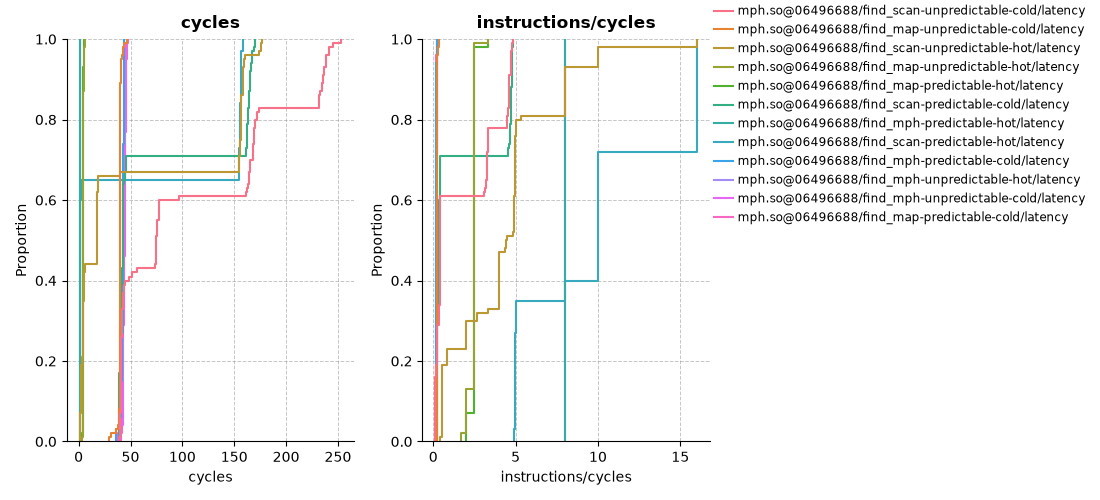
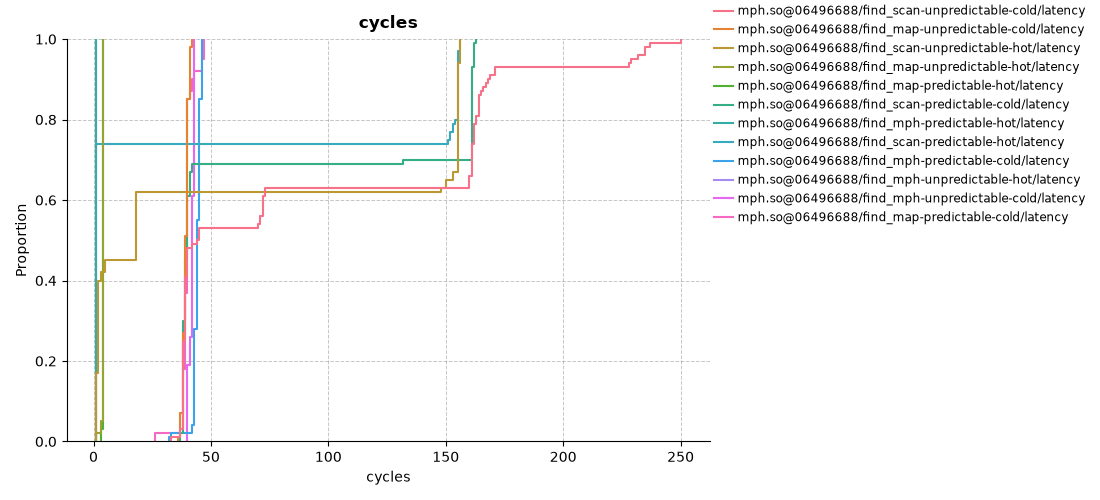
cppcon-2026

diff --git a/cppcon-2026/index.html b/cppcon-2026/index.html
@@ -634,30 +634,20 @@ https://makelinux.github.io/kernel/map
 ##### `Goals`
 <!-- .element: style="text-align:left" -->
 
-**Non-Intrusive**
+**Non-Intrusive** - Benchmark existing binaries, libraries, and assembly without modifying code
 <!-- .element: style="text-align:left; font-size:22px;" -->
-    Benchmark existing binaries, libraries, and assembly without modifying code
-<!-- .element: style="text-align:left; font-size:17px;" -->
 
-**Complete Path Coverage**
+**Complete Path Coverage** - Discover and exercise all relevant execution paths
 <!-- .element: style="text-align:left; font-size:22px;" -->
-    Discover and exercise all relevant execution paths
-<!-- .element: style="text-align:left; font-size:17px;" -->
 
-**Microarchitectural Control**
+**Microarchitectural Control** - "Control" relevant hardware state
 <!-- .element: style="text-align:left; font-size:22px;" -->
-    "Control" relevant hardware state
-<!-- .element: style="text-align:left; font-size:17px;" -->
 
-**Statistical Robustness**
+**Statistical Robustness** - Capture statistically robust measurements
 <!-- .element: style="text-align:left; font-size:22px;" -->
-    Capture statistically robust measurements
-<!-- .element: style="text-align:left; font-size:17px;" -->
 
-**Native execution**
+**Native execution** - Target and execute on real hardware
 <!-- .element: style="text-align:left; font-size:22px;" -->
-    Target and execute on real hardware
-<!-- .element: style="text-align:left; font-size:17px;" -->
 
 ----
 
@@ -972,17 +962,14 @@ je .Lmiss
 ##### `Data`
 <!-- .element: style="text-align:left; font-size:22px;" -->
 ```python
-data(state, n): # predictable                                           python
-    return state.solver.eval_up_to(n)
-
-data(state, n): # unpredcictable
-    return distribution(state.solver.eval_up_to(n))
+def data(addr, n):
+    return distribution(state.solver.eval_up_to(state(addr), n))
 ```
 <!-- .element: style="text-align:left; font-size:20px;" -->
 
 <div style="margin: 50px 0px;" />
 
-##### `Distribution (n > 10'000)`
+##### `Distribution`
 <!-- .element: style="text-align:left; font-size:20px;" -->
 ```cpp
 predictable   = [0,0,0,0,0,0,...]
@@ -1009,7 +996,7 @@ unpredictable = sample(0..n, p=0.25)
 <!-- .element: style="text-align:left;" -->
 
 ```cpp
-add r11, [rax]
+mov r11, [rax]
 ```
 
 https://www.akkadia.org/drepper/cpumemory.pdf
@@ -1017,17 +1004,55 @@ https://www.akkadia.org/drepper/cpumemory.pdf
 
 ----
 
-```cpp
-enum class Level {
-    L1d,
-    L2d,
-    L3d,
-    DRAM,
-};
-```
-<!-- .element: style="text-align:left; font-size:20px;" -->
+##### Cache eviction
+<!-- .element: style="text-align:left; font-size:24px; " -->
 
 ```cpp
+enum class Level { L1, L2, L3, DRAM }; // d-cache
+```
+<!-- .element: style="text-align:left; font-size:17px;" -->
+
+```cpp
+auto refresh(const void* addr, const auto level) {
+    assert(addr);
+    if constexpr (level == Level::L1) {
+        load(addr);                              // L1
+        fence();
+    } else if constexpr (level == Level::L2) {
+        flush(addr);                             // DRAM
+        fence();
+        settle();
+        prefetch<Level>(addr);                   // PREFETCHT1 hint
+    } else if constexpr (level == Level::L3) {
+        load(addr);                              // L1
+        fence();
+        demote(addr);                            // CLDEMOTE hint
+    } else {
+        flush(addr);                             // DRAM
+        fence();
+    }
+    settle();
+}
+```
+<!-- .element: style="text-align:left; font-size:17px;" -->
+
+```asm
+PREFETCHNTA  Non-temporal
+PREFETCHT0   Hint into all cache levels (L1 priority)
+PREFETCHT1   Hint into L2/L3, lower L1 priority
+PREFETCHT2   Hint into L2/L3 with even lower urgency
+CLFLUSH{OPT} Flush Cache Line
+CLDEMOTE     Hint into more distant level (Xeon, Sapphire Rapids, ...)
+```
+<!-- .element: style="text-align:left; font-size:13px; margin: 0 0;" -->
+
+https://www.intel.com/content/www/us/en/developer/articles/technical/intel-sdm.html
+<!-- .element: style="text-align:left; font-size:16px;" -->
+
+----
+
+```cpp
+// hirearchy
 level = {
     0x03232: L1d:100, L2d:70, L3d:50, DRAM:100
 }
@@ -1041,41 +1066,19 @@ for addr in cache_lines(state["mem_read"] + state["mem_write"]):      # python
 
 ----
 
+##### `More...`
+<!-- .element: style="text-align:left;" -->
+
 ```cpp
-template<Level level>
-auto refresh(const void* addr) {
-    assert(addr);
-    if constexpr (level == Level::L1) {
-        load(addr);                              // L1d
-        fence();
-    } else if constexpr (level == Level::L2) {
-        flush(addr);                             // DRAM
-        fence();
-        settle();
-        prefetch<Level>(addr);                   // PREFETCHT1 hint
-    } else if constexpr (level == Level::L3) {
-        load(addr);                              // L1d
-        demote(addr);                            // CLDEMOTE hint
-    } else {
-        flush(addr);                             // DRAM
-        fence();
-    }
-    settle();
-}
+Code alignment
+Stack alignment/size
+Instruction cache
+Translation Lookaside Buffer (TLB)
+Execution ports
+Thread affinity/priority
+...
 ```
-<!-- .element: style="text-align:left; font-size:20px;" -->
-
-```asm
-PREFETCHNTA Non-temporal
-PREFETCHT0  Hint into all cache levels (L1 priority)
-PREFETCHT1  Hint into L2/L3, lower L1 priority
-PREFETCHT2  Hint into L2/L3 with even lower urgency
-CLDEMOTE    Hint into more distant level (Xeon, Sapphire Rapids, ...)
-```
-<!-- .element: style="text-align:left; font-size:16px;" -->
-
-https://www.intel.com/content/www/us/en/developer/articles/technical/intel-sdm.html
-<!-- .element: style="text-align:left; font-size:18px;" -->
+<!-- .element: class="fragment" -->
 
 ----
 
@@ -1162,7 +1165,7 @@ lstopo # perf info cpu -c cpu,numa,arch,model,family,stepping,freq,L1i,L1d,L2,L3
 
 ```cpp
 def AlderlakePModel : SchedMachineModel {
-  let IssueWidth = 6;
+  let IssueWidth = 6; // Max uOps/Cycle
   let MicroOpBufferSize = 512;
   let LoadLatency = 5;
   let MispredictPenalty = 14;
@@ -1170,13 +1173,12 @@ def AlderlakePModel : SchedMachineModel {
   ...
 }
 ```
-<!-- .element: style="text-align:left; font-size:18px;" -->
 
 https://github.com/llvm/llvm-project/tree/main/llvm/lib/Target
-<!-- .element: style="text-align:left; font-size: 18px; margin: 5px 0px;" -->
+<!-- .element: style="text-align:left; font-size: 20px; margin: 5px 0px;" -->
 
 https://github.com/gcc-mirror/gcc/tree/master/gcc/config
-<!-- .element: style="text-align:left; font-size: 18px; margin: 5px 0px;" -->
+<!-- .element: style="text-align:left; font-size: 20px; margin: 5px 0px;" -->
 
 ----
 
@@ -1255,7 +1257,7 @@ https://llvm.org/docs/CommandGuide/llvm-exegesis.html
 <!-- .element: style="text-align:left" -->
 
 ```cpp
-perf bench asm 'add r11, [rax]'           perf bench asm 'add r11, [rax]'
+perf bench asm 'mov r11, [rax]'           perf bench asm 'mov r11, [rax]'
     --mode latency                            --mode latency
     --event cycles                            --event cycles
     --config.cache.L1d=hit_rate:100           --config.cache.L1d=hit_rate:0
@@ -1301,9 +1303,12 @@ perf plot -t ecdf -e duration_time/operations -- data/
 <img src="images/co.png" style="width: 100%; background:white; border:none; box-shadow:none; margin: 0 0;" />
 </p>
 
+duration_time/operations = latency | inverse throughput (reciprocal throughput)
+<!-- .element: style="text-align:right; font-size: 16px;" -->
+
 ----
 
-#### 'The Best, The Worst, The Real' Execution
+#### 'The Best, The Real, The Worst' Execution
 <!-- .element: style="text-align:left" -->
 
 <p align="left">
@@ -1594,8 +1599,6 @@ bench --data.arg0=1
 bench --data.arg0=3
 bench --data.arg0=5
 bench --data.arg0=15
-bench --config.branch=predictable
-bench --config.branch=unpredictable
 bench --data.arg0=[$(seq 1 100000)] --config.branch=unpredictable
 bench --data.arg0=[$(seq 1 100000)] --config.branch=predictable
 ```
@@ -1658,7 +1661,7 @@ for l1i in 0 100; do for align in 1 16; do
   perf bench region hot_begin..hot_end
       --exec codegen.out
       --mode latency
-      --config.cache.L1i=hit_rate:$l1i  # instruction cache
+      --config.cache.L1i=hit_rate:$l1i  # i-cache
       --config.func.align=$align        # alignment
       --config.func.order=as-is         # as-is,hot,cold,random
 done; done
@@ -1802,34 +1805,21 @@ for cxx in ("gcc", "clang"):
 ----
 
 ```sh
-perf view --event cycles --stat p99 -- find
-```
-<!-- .element: style="text-align:left; font-size:16px;" -->
-
-```sh
-           file                         name    mode stat cycles instructions/cycles
-mph.so@06496688    find_map-predictable-cold latency  p99  47.01                0.24
-mph.so@06496688     find_map-predictable-hot latency  p99   5.00                3.33
-mph.so@06496688  find_map-unpredictable-cold latency  p99  44.03                0.32
-mph.so@06496688   find_map-unpredictable-hot latency  p99   6.00                2.51
-mph.so@06496688    find_mph-predictable-cold latency  p99  44.00                0.22
-mph.so@06496688     find_mph-predictable-hot latency  p99   1.00                8.00
-mph.so@06496688  find_mph-unpredictable-cold latency  p99  46.01                0.21
-mph.so@06496688   find_mph-unpredictable-hot latency  p99   1.00                8.00
-mph.so@06496688   find_scan-predictable-cold latency  p99 170.00                4.81
-mph.so@06496688    find_scan-predictable-hot latency  p99 158.00               16.00
-mph.so@06496688 find_scan-unpredictable-cold latency  p99 245.08                4.78
-mph.so@06496688  find_scan-unpredictable-hot latency  p99 176.01               16.00
-```
-<!-- .element: style="text-align:left; font-size:14px;" -->
-
-```sh
 perf plot -t ecdf -e cycles -- find
 ```
 <!-- .element: style="text-align:left; font-size:16px;" -->
 
 <p align="left">
-<img src="images/mph_ecdf.png" style="width: 80%; background:white; border:none; box-shadow:none;" />
+<img src="images/mph_ecdf.png" style="width: 50%; background:white; border:none; box-shadow:none;" />
+</p>
+
+```sh
+perf plot -t ecdf -e cycles/instructions -- find
+```
+<!-- .element: style="text-align:left; font-size:16px;" -->
+
+<p align="left">
+<img src="images/mph_ecdf_ipc.png" style="width: 50%; background:white; border:none; box-shadow:none;" />
 </p>
 
 ----
